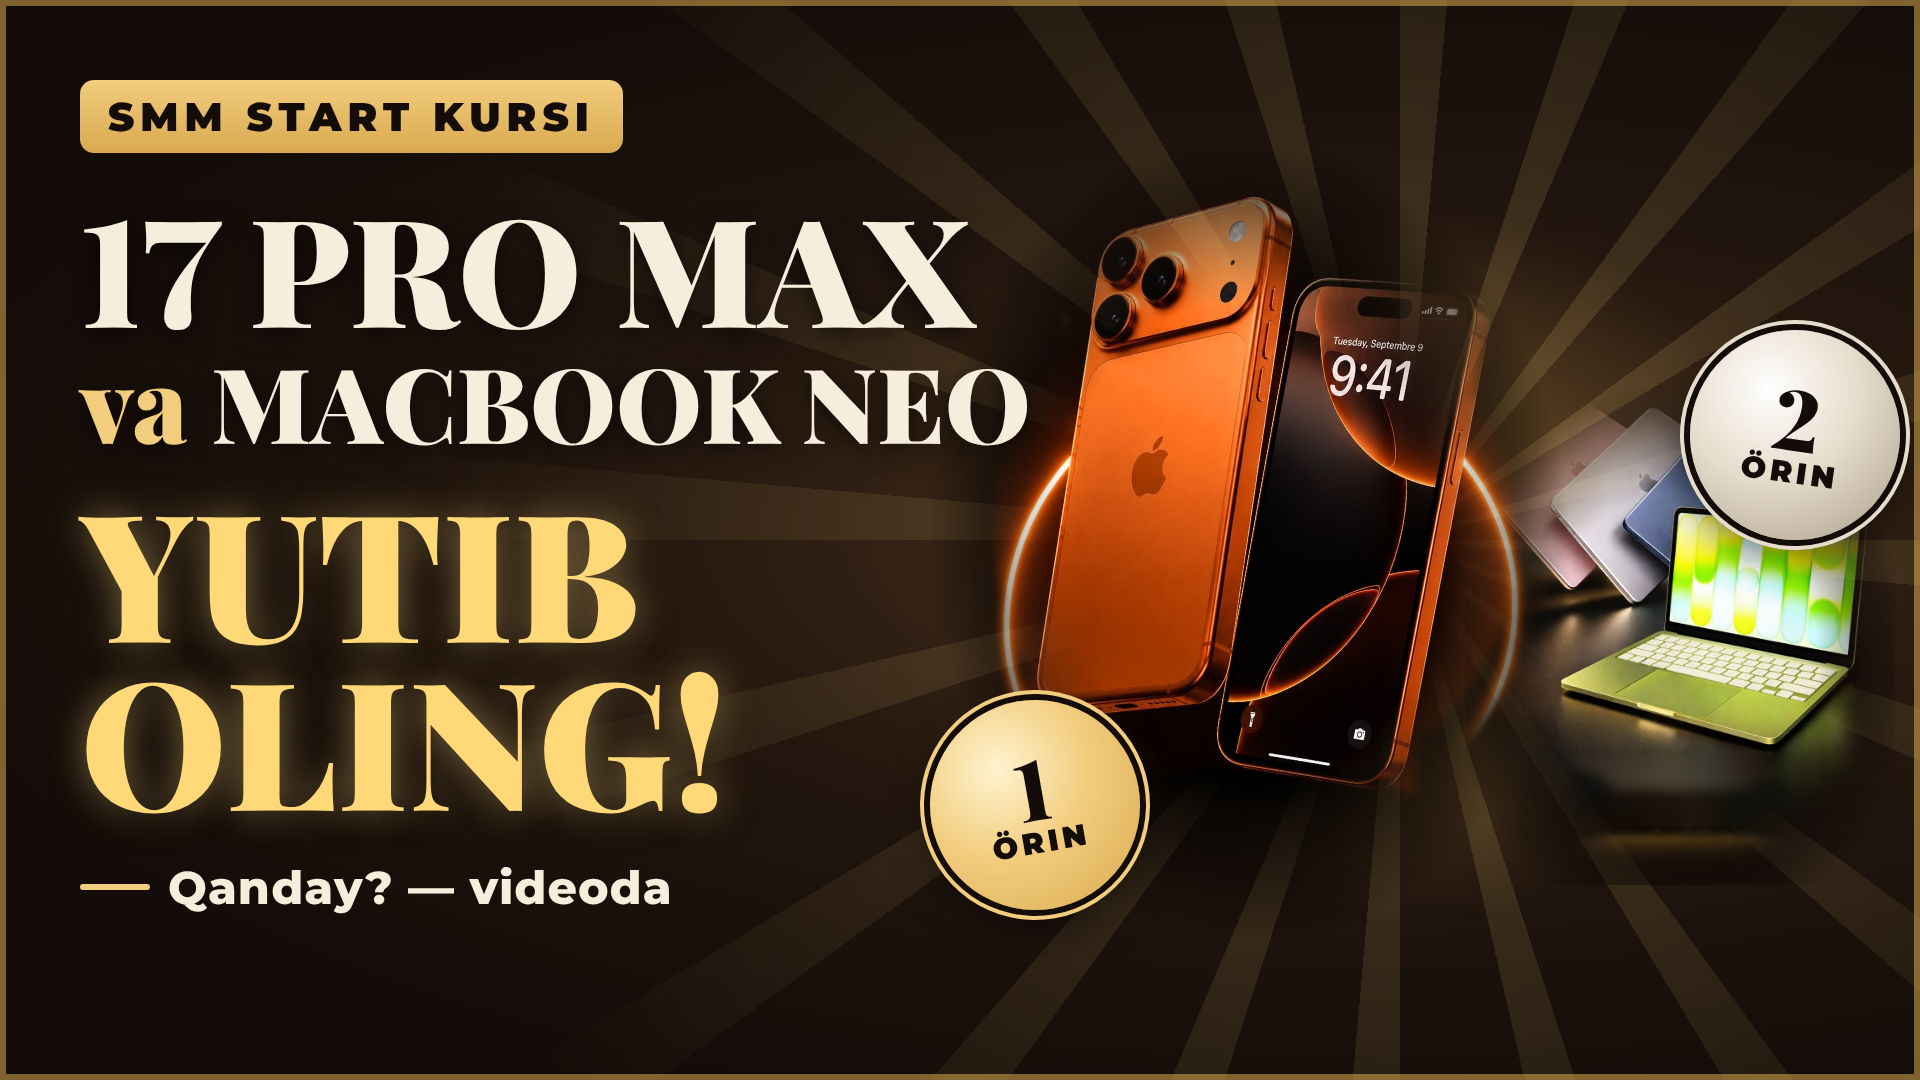
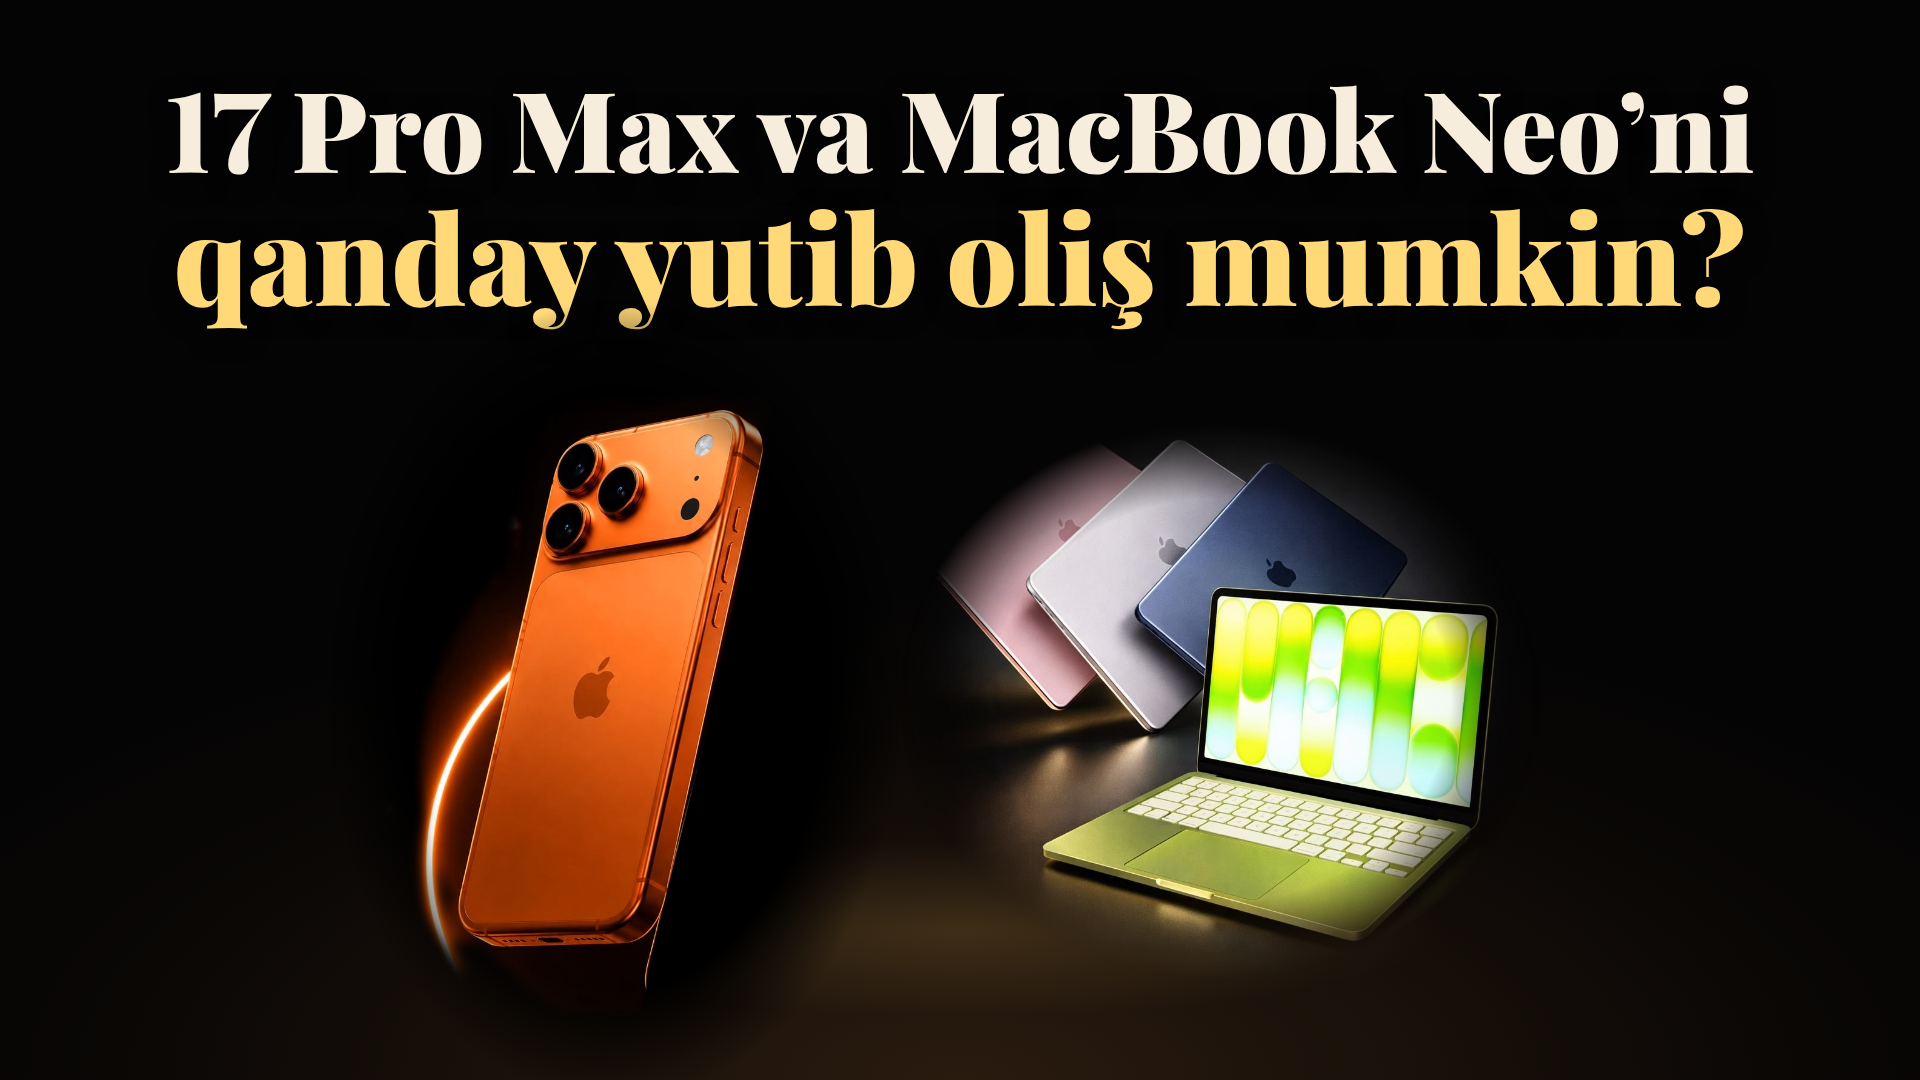
SmmStart thumbnail: calm layout — one question, single phone + MacBook
Claude-Session: https://claude.ai/code/session_01811cARaKyMG81277ZHP9KG

diff --git a/video/src/v12/Thumbnail.tsx b/video/src/v12/Thumbnail.tsx
@@ -1,51 +1,31 @@
 import React from "react";
 import { AbsoluteFill, Img, staticFile } from "remotion";
-import { BEBAS, CREAM, GOLD, GOLD2, INTER, N, NAVY } from "./ui";
+import { BEBAS, CREAM, GOLD2, N } from "./ui";
 
 // YouTube thumbnail for the SmmStart video (1920×1080 → exported 1280×720).
-// Devices + headline only (no speaker), same look as the edit.
+// Calm layout: one question on top, the two prizes side by side below.
 const F = (p: string) => staticFile(`v12/${p}`);
-const head = (size: number, color: string = CREAM): React.CSSProperties => ({
-  fontFamily: BEBAS, fontWeight: 900, fontSize: size, lineHeight: 0.98, color, whiteSpace: "nowrap",
-  fontVariantNumeric: "lining-nums", textShadow: "0 6px 24px rgba(0,0,0,0.6)",
+const mask = "radial-gradient(ellipse 50% 50% at 50% 50%, black 72%, transparent 100%)";
+const head = (size: number, color: string): React.CSSProperties => ({
+  fontFamily: BEBAS, fontWeight: 900, fontSize: size, lineHeight: 1.02, color, whiteSpace: "nowrap", textAlign: "center",
+  fontVariantNumeric: "lining-nums", textShadow: "0 6px 24px rgba(0,0,0,0.55)",
 });
-const Sticker: React.FC<{ text: string; sub: string; x: number; y: number; gold?: boolean; rot?: number }> = ({ text, sub, x, y, gold = true, rot = 0 }) => (
-  <div style={{ position: "absolute", left: x, top: y, width: 210, height: 210, borderRadius: "50%", transform: `rotate(${rot}deg)`,
-    background: gold ? `radial-gradient(circle at 35% 30%, #fff3cf, ${GOLD} 45%, ${GOLD2})` : "radial-gradient(circle at 35% 30%, #ffffff, #e6dccb 45%, #a99d8a)",
-    boxShadow: `0 0 0 6px ${NAVY}, 0 0 0 10px ${gold ? GOLD : "#e6dccb"}, 0 20px 40px rgba(0,0,0,0.55)`,
-    display: "flex", flexDirection: "column", alignItems: "center", justifyContent: "center", color: NAVY }}>
-    <div style={{ fontFamily: BEBAS, fontWeight: 900, fontSize: 84, lineHeight: 0.9, fontVariantNumeric: "lining-nums" }}>{text}</div>
-    <div style={{ fontFamily: INTER, fontWeight: 900, fontSize: 30, letterSpacing: 4 }}>{N(sub)}</div>
-  </div>
-);
 
 export const SmmThumb: React.FC = () => (
-  <AbsoluteFill style={{ background: `radial-gradient(ellipse at 70% 50%, #4a321c 0%, #22160e 40%, ${NAVY} 78%)`, overflow: "hidden" }}>
-    {/* light rays + glow behind the prizes */}
-    <div style={{ position: "absolute", left: 1400 - 1200, top: 540 - 1200, width: 2400, height: 2400, opacity: 0.2, background: `repeating-conic-gradient(from 0deg, ${GOLD} 0deg 5deg, transparent 5deg 18deg)`, maskImage: "radial-gradient(circle, black 0%, transparent 60%)", WebkitMaskImage: "radial-gradient(circle, black 0%, transparent 60%)" }} />
-    <div style={{ position: "absolute", left: 950, top: 90, width: 950, height: 950, borderRadius: "50%", background: `radial-gradient(closest-side, ${GOLD2}55, transparent 75%)` }} />
+  <AbsoluteFill style={{ background: "radial-gradient(ellipse 60% 45% at 50% 100%, #2a1b0f 0%, #0b0806 70%, #050404 100%)", overflow: "hidden" }}>
+    {/* soft floor glow under the prizes */}
+    <div style={{ position: "absolute", left: 360, top: 820, width: 1200, height: 220, borderRadius: "50%", background: `radial-gradient(closest-side, ${GOLD2}2e, transparent 80%)` }} />
 
-    {/* prizes (black photo backgrounds dropped with "lighten") */}
-    <div style={{ position: "absolute", left: 1450, top: 380, width: 460, height: 560, overflow: "hidden", maskImage: "radial-gradient(ellipse 50% 50% at 50% 50%, black 60%, transparent 100%)", WebkitMaskImage: "radial-gradient(ellipse 50% 50% at 50% 50%, black 60%, transparent 100%)" }}>
-      <Img src={F("macbook.jpg")} style={{ position: "absolute", left: 15, top: -140, width: 430 }} />
+    {/* question */}
+    <div style={{ position: "absolute", top: 70, left: 0, right: 0, display: "flex", flexDirection: "column", alignItems: "center" }}>
+      <div style={head(112, CREAM)}>17 Pro Max va MacBook Neo’ni</div>
+      <div style={{ ...head(124, "#FFD978"), marginTop: 8 }}>{N("qanday yutib olish mumkin?")}</div>
     </div>
-    <Img src={F("iphone.jpg")} style={{ position: "absolute", left: 930, top: 140, height: 800, transform: "rotate(-4deg)", maskImage: "radial-gradient(ellipse 50% 50% at 50% 50%, black 60%, transparent 100%)", WebkitMaskImage: "radial-gradient(ellipse 50% 50% at 50% 50%, black 60%, transparent 100%)" }} />
-    <Sticker text="1" sub="O‘RIN" x={930} y={700} rot={-10} />
-    <Sticker text="2" sub="O‘RIN" x={1690} y={330} gold={false} rot={8} />
 
-    {/* headline */}
-    <div style={{ position: "absolute", left: 80, top: 80 }}>
-      <div style={{ display: "inline-block", padding: "12px 28px", borderRadius: 14, background: `linear-gradient(180deg, ${GOLD}, ${GOLD2})`, color: NAVY, fontFamily: INTER, fontWeight: 900, fontSize: 40, letterSpacing: 6 }}>{N("SMM START KURSI")}</div>
-      <div style={{ ...head(150), marginTop: 40 }}>17 PRO MAX</div>
-      <div style={{ ...head(104), marginTop: 10 }}><span style={{ color: GOLD }}>va</span> MACBOOK NEO</div>
-      <div style={{ ...head(178, "#FFD978"), marginTop: 30, textShadow: "0 0 36px rgba(242,205,126,0.5), 0 8px 24px rgba(0,0,0,0.7)" }}>{N("YUTIB")}</div>
-      <div style={{ ...head(178, "#FFD978"), marginTop: -6, textShadow: "0 0 36px rgba(242,205,126,0.5), 0 8px 24px rgba(0,0,0,0.7)" }}>{N("OLING!")}</div>
-      <div style={{ display: "flex", alignItems: "center", gap: 18, marginTop: 34 }}>
-        <div style={{ width: 70, height: 6, borderRadius: 3, background: GOLD }} />
-        <div style={{ fontFamily: INTER, fontWeight: 800, fontSize: 46, color: CREAM, letterSpacing: 1 }}>{N("Qanday? — videoda")}</div>
-      </div>
+    {/* prizes */}
+    <Img src={F("iphone_single.png")} style={{ position: "absolute", left: 330, top: 300, height: 800, maskImage: mask, WebkitMaskImage: mask }} />
+    <div style={{ position: "absolute", left: 900, top: 420, width: 640, height: 560, overflow: "hidden", maskImage: mask, WebkitMaskImage: mask }}>
+      <Img src={F("macbook.jpg")} style={{ position: "absolute", left: 0, top: -230, width: 640 }} />
     </div>
-    {/* thin gold frame */}
-    <AbsoluteFill style={{ border: `6px solid ${GOLD2}`, opacity: 0.55 }} />
   </AbsoluteFill>
 );
